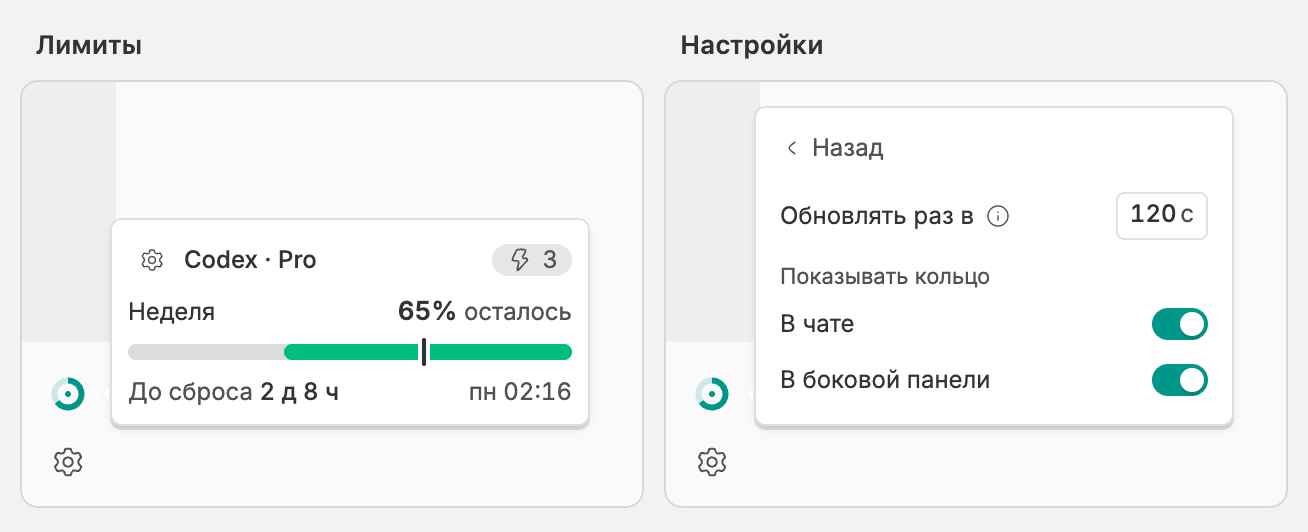
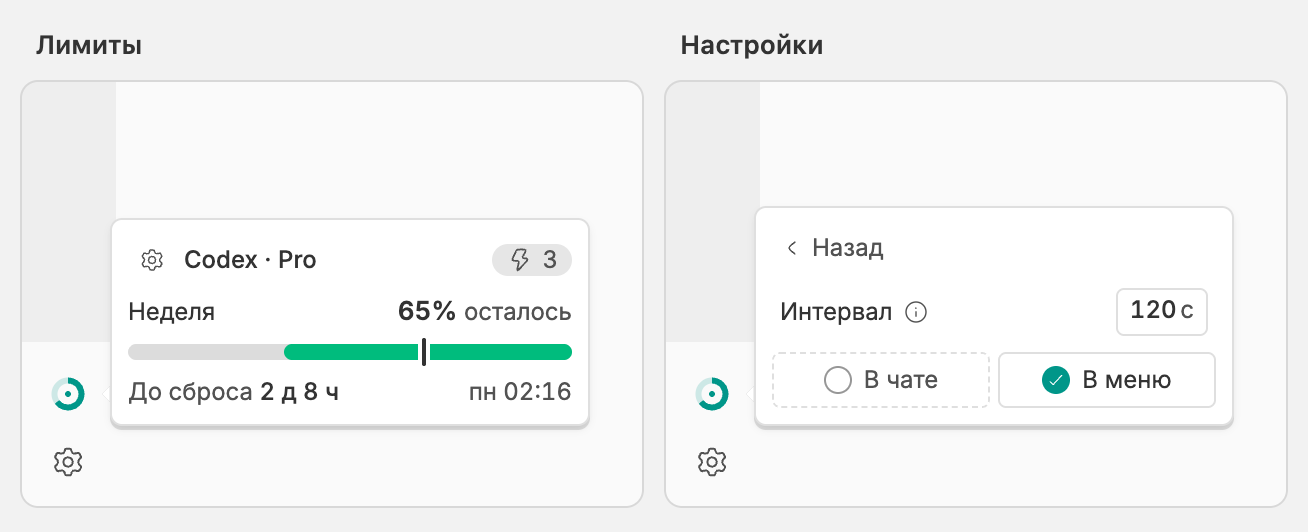
Show the compact placement controls in both settings guides

diff --git a/README.md b/README.md
@@ -42,7 +42,7 @@ Tap the teal ring in the chat composer or open the left sidebar and tap the ring
 
 ## Quick settings
 
-The **Settings** gear beside the plan name opens the refresh **Interval** and two independent ring placements, **Chat** and **Sidebar**. **Save** appears once you change something.
+Use the gear beside the plan name to set the refresh interval and choose where the ring appears. You can enable **Chat**, **Sidebar**, or both. **Save** appears after a change.
 
 <img src="docs/screenshots/sidebar-en.png" width="600" alt="Left sidebar in BB with the Codex Pro quota card on the left and its refresh and placement settings on the right">
 
